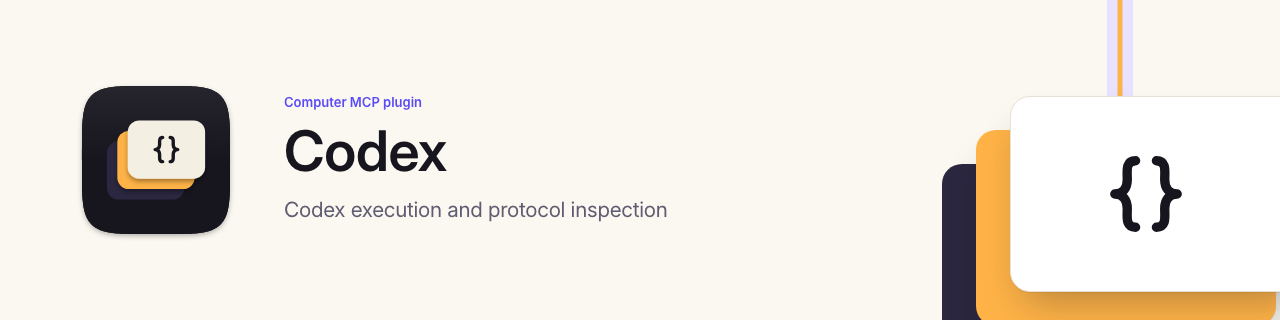
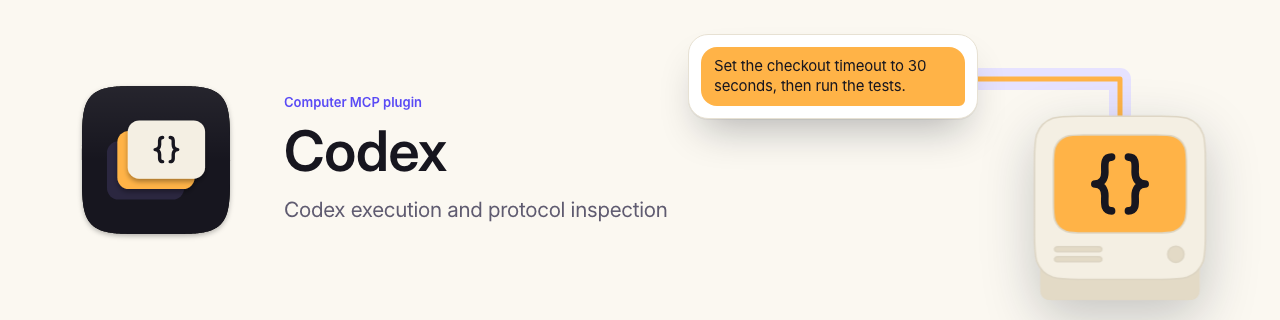
feat(brand): draw the chat-to-computer motif in headers and social cards

Changed region(s): [[0.5312, 0.125, 1.0, 1.0]]

diff --git a/DESIGN.md b/DESIGN.md
@@ -26,8 +26,12 @@ colors:
   line-dark: "#2C2938"
   accent-text: "#5A4BF5"
   accent-text-dark: "#8B80FF"
-  plane-back: "#2B2740"
-  on-plane-back: "#C9C3E0"
+  computer-case: "#F4EFE3"
+  computer-case-dark: "#E9E2D2"
+  computer-edge: "#DDD5C3"
+  computer-edge-dark: "#BFB6A3"
+  computer-chin: "#E3DAC6"
+  computer-chin-dark: "#CFC5B0"
   link-rail: "#E6E2FF"
   link-rail-dark: "#2A2547"
   success: "#1A7A43"
@@ -125,7 +129,6 @@ spacing:
   section: 112px
   content-max: 1180px
   gutter: 24px
-  plane-offset: 48px
   link-width: 40px
 components:
   page:
@@ -202,30 +205,28 @@ components:
     typography: "{typography.body-md}"
     rounded: "{rounded.lg}"
     padding: 10px
-  plane-workspace:
-    backgroundColor: "{colors.plane-back}"
-    textColor: "{colors.on-plane-back}"
-    typography: "{typography.label-md}"
-    rounded: "{rounded.lg}"
-    padding: 20px
-  plane-capabilities:
+  computer-case:
+    backgroundColor: "{colors.computer-case}"
+  computer-case-dark:
+    backgroundColor: "{colors.computer-case-dark}"
+  computer-edge:
+    backgroundColor: "{colors.computer-edge}"
+    width: 1.5px
+  computer-edge-dark:
+    backgroundColor: "{colors.computer-edge-dark}"
+    width: 1.5px
+  computer-chin:
+    backgroundColor: "{colors.computer-chin}"
+  computer-chin-dark:
+    backgroundColor: "{colors.computer-chin-dark}"
+  computer-screen:
     backgroundColor: "{colors.signal}"
     textColor: "{colors.on-signal}"
-    typography: "{typography.label-md}"
-    rounded: "{rounded.lg}"
-    padding: 20px
-  plane-result:
-    backgroundColor: "{colors.surface-raised}"
-    textColor: "{colors.on-surface}"
     typography: "{typography.code-md}"
-    rounded: "{rounded.lg}"
-    padding: 20px
-  plane-result-dark:
-    backgroundColor: "{colors.surface-raised-dark}"
-    textColor: "{colors.on-surface-dark}"
+  computer-screen-dark:
+    backgroundColor: "{colors.signal-dark}"
+    textColor: "{colors.on-signal}"
     typography: "{typography.code-md}"
-    rounded: "{rounded.lg}"
-    padding: 20px
   link-rail:
     backgroundColor: "{colors.link-rail}"
     width: "{spacing.link-width}"
@@ -290,16 +291,16 @@ components:
   focus-ring:
     backgroundColor: "{colors.focus}"
     width: 2px
-  app-icon-body:
+  component-icon-body:
     backgroundColor: "{colors.icon-body}"
     size: 824px
-  app-icon-plane-workspace:
+  component-icon-plane-workspace:
     backgroundColor: "{colors.icon-plane-back}"
     rounded: "{rounded.plane}"
-  app-icon-plane-capabilities:
+  component-icon-plane-capabilities:
     backgroundColor: "{colors.icon-plane-mid}"
     rounded: "{rounded.plane}"
-  app-icon-plane-result:
+  component-icon-plane-result:
     backgroundColor: "{colors.icon-plane-front}"
     textColor: "{colors.icon-glyph}"
     rounded: "{rounded.plane}"
@@ -313,11 +314,11 @@ Computer MCP lets the chat people already use reach their own computers. ChatGPT
 code and run commands there, use local CLI tools, MCP servers, Skills and Computer Use, and hand work
 to Codex, Claude Code or Cursor when that helps. Each computer decides what it allows.
 
-The visual system draws that model directly. The computer is a **stack of planes** — the authorized
-workspace at the back, the capabilities in the middle, the result in front. The chat is a separate
-card, and one **secure link** runs from it into the stack; calls travel along the link as small
-packets. Everything that belongs to the active path — the request, the link and the capability
-plane it reaches — is amber, the light of the App icon's screen. Violet is the field the computer
+The visual system draws that model directly. The computer is the **compact machine** of the App
+icon — an ivory case, a recessed chin and a screen. The chat is a separate card, and one **secure
+link** runs from its request into the computer; calls travel along the link as small packets.
+Everything that belongs to the active path — the request, the link and the screen it lights — is
+amber. Each member repository shows the same computer with its own glyph on the screen. Violet is the field the computer
 stands on and the color of actions: buttons and links.
 
 The look is warm, tactile and exact: ivory and ink with one violet field and one amber light,
@@ -342,8 +343,9 @@ About window.
 - **Amber (#FFB347; #FFC266 on dark):** the active path only — the chat request, the active link and
   the capability plane it reaches, and the App icon's screen. Labels on amber are ink; amber is
   never used as text on light surfaces.
-- **Ivory (#F4EFE3):** chips, the front plane of component icons and text on code surfaces.
-- **Violet ink (#2B2740):** the workspace plane, with **#C9C3E0** labels.
+- **Ivory (#F4EFE3):** chips, the computer's case (**#DDD5C3** edge, **#E3DAC6** chin; **#E9E2D2**,
+  **#BFB6A3** and **#CFC5B0** on dark), the front plane of component icons and text on code surfaces.
+- **Violet ink (#2B2740):** the back plane of component icons.
 - **Link rail (#E6E2FF; #2A2547 on dark):** the band under the active link.
 - **Surfaces:** page **#FBF8F1** and raised **#FFFFFF** in light mode; **#121019** and **#1C1A26**
   in dark mode, with lines **#E7E1D3** and **#2C2938**.
@@ -373,13 +375,15 @@ artwork faces; web text maps them to the system stack.
 A 12-column grid capped at 1180px with 24px gutters; marketing sections are separated by 112px and
 spacing follows a 4px unit. Reference pages use a single 720px reading column.
 
-- **Hero:** copy on the left; on the right, the chat card sits high and the stack sits low, with the
-  link leaving the chat card, bending once and entering the top of the stack. Packets sit on the
+- **Hero:** copy on the left; on the right, the chat card sits high and the computer sits low, with
+  the link leaving the request, bending once and entering the top of the computer. Packets sit on the
   vertical run of the link.
-- **README header (1280 × 320, light and dark):** icon and name on the left, one supporting line,
-  and a small stack-and-link motif breaking the right edge.
-- **Social card (1280 × 640):** icon and name at the top left, the headline below, capability chips at
-  the bottom and the motif on the right.
+- **README header (1280 × 320, light and dark):** icon and name on the left, one supporting line;
+  on the right the request bubble, the link turning down into the top of the computer, and the
+  member's glyph on its amber screen (the App's screen is plain light).
+- **Social card (1280 × 640):** icon and name at the top left, the headline below and capability
+  chips at the bottom; on the right the chat card, the link with its packets and the computer — the
+  App's screen shows the command and its passing result, a member's screen shows its glyph.
 - **Website:** compact sticky navigation with the App icon, product name, core links, language switch
   and download action; the hero; capability examples for files and commands, CLI, MCP, Skills,
   Computer Use and coding-agent hand-off; how hosts connect and how permissions work on each
@@ -389,17 +393,17 @@ spacing follows a 4px unit. Reference pages use a single 720px reading column.
 
 ## Elevation & Depth
 
-Depth comes from **offset stacking**, not blur. A plane sits 48px up and to the right of the plane
-beneath it and casts a short, crisp shadow (`0 1px 0 rgba(0,0,0,.05), 0 22px 40px -14px
-rgba(10,16,30,.30)`). At most three planes stack. The chat card uses the same shadow. The link runs
-on the page plane, beneath cards and planes. In dark mode, shadows deepen
-(`0 24px 48px -16px rgba(0,0,0,.6)`) and raised surfaces add a 1px line border.
+Depth comes from **crisp shadows and layering**, not blur. Cards and the computer cast a short shadow
+(`0 1px 0 rgba(0,0,0,.05), 0 22px 40px -14px rgba(10,16,30,.30)`); the computer's chin sits one layer
+behind its case. The link runs on the page plane, beneath cards and the computer. In dark mode,
+shadows deepen (`0 24px 48px -16px rgba(0,0,0,.6)`) and raised surfaces add a 1px line border.
 
 ## Shapes
 
-Planes and cards use a 20px radius; buttons 12px; chips 6px; packets are fully rounded. The link is a
-straight band with round caps that bends at most once. At 1024 scale the App icon uses a 64px plane
-radius; the body is the macOS rounded rectangle on the 824px grid.
+Cards use a 20px radius; buttons 12px; chips 6px; packets are fully rounded. The link is a
+straight band with round caps that bends at most once. The computer is drawn from the App icon's own
+layers with continuous corners; component icons use a 64px plane radius on the 824px grid at 1024
+scale.
 
 ## Icon Family
 
@@ -407,8 +411,8 @@ radius; the body is the macOS rounded rectangle on the 824px grid.
   workspace, amber capabilities, ivory result — each plane 58px up and to the right of the one beneath it. The mark
   is the computer alone; the chat card and the link appear only in compositions around it. No
   isometric projection; avoid any resemblance to cube marks.
-- **Glyph:** the front plane carries one ink glyph with a 9% stroke. The App uses the **local node**
-  (a dot inside a ring). Each component swaps only this glyph: computer-use pointer, apple-cli
+- **Glyph:** the front plane carries one ink glyph with a 9% stroke; the same glyph appears on the
+  computer's screen in that member's compositions. Each component swaps only this glyph: computer-use pointer, apple-cli
   prompt, codex braces, swift-format aligned bars, claude speech bracket, cursor text caret, trae play
   wedge, homebrew-tap install tray.
 - **Small sizes:** at 32px and below, drop the workspace plane and thicken the glyph.
@@ -536,10 +540,9 @@ The App icon is a Liquid Glass icon generated from this entry with the `apple-ap
 - **Secondary button:** raised surface with a 1px line border.
 - **Chat card:** raised surface, 20px radius, a title row naming the chat, and the request as a
   amber bubble with ink text.
-- **Planes:** violet-ink workspace plane labelled with the authorized folder; amber capabilities
-  plane labelled "Tools you allow"; raised result plane with the computer's name, a connected
-  status, the touched file and a passing command. Capability chips beside the composition name
-  Files, Shell, CLI, MCP, Skills and Computer Use.
+- **Computer:** the App icon's machine drawn flat — ivory case with a hairline edge, recessed chin,
+  amber screen carrying the member glyph or, for the App, the command and its result. Capability chips
+  beside the composition name Files, Shell, CLI, MCP, Skills and Computer Use.
 - **Link and packets:** a link-rail band with a 6px amber line; packets are raised pills naming
   the tool, such as `file.write`.
 - **Status:** green for success, red for removals, caution badge for actions awaiting confirmation.
@@ -551,23 +554,23 @@ The App icon is a Liquid Glass icon generated from this entry with the `apple-ap
 - Do keep amber for the active path and violet for actions and links; never set amber text on a
   light surface.
 - Do show both the chat and the computer whenever the link appears.
-- Do stack at most three planes, offset up and to the right.
+- Do draw the computer from the App icon's layers; never redraw or restyle it per surface.
 - Do render every image text with the bundled OFL fonts, in both light and dark.
-- Don't use gradients on planes, or rotate them.
+- Don't use gradients on cards or the computer, or rotate them.
 - Don't draw clouds, globes or padlocks; the link carries the meaning.
 - Don't put text inside the App icon.
 
 ## Responsive
 
 Breakpoints are 900px, 600px and 370px. Below 900px the hero stacks copy above the illustration, the
-link becomes vertical and the plane offset halves to 24px. Below 600px the stack collapses to two
-planes and the display size drops to 52px (Chinese 44px); side margins are 24px, and 16px below
+link becomes vertical and the computer scales down with the column. Below 600px the display size
+drops to 52px (Chinese 44px); side margins are 24px, and 16px below
 370px. Touch targets stay at least 44px. Controls keep visible focus, meaningful selected states,
 keyboard operation and reduced-motion support.
 
 ## Iteration Guide
 
 Change tokens here first, then regenerate every asset with the organization renderer and deliver
-them through each repository's brand lock. A new component swaps only the front-plane glyph and
-never introduces a new color. Check the App icon in every macOS rendition, including Clear and
+them through each repository's brand lock. A new component swaps only its glyph — on the front
+plane of its icon and on the computer's screen — and never introduces a new color. Check the App icon in every macOS rendition, including Clear and
 Tinted, before delivery. The repository README lists the render, check and delivery commands.
